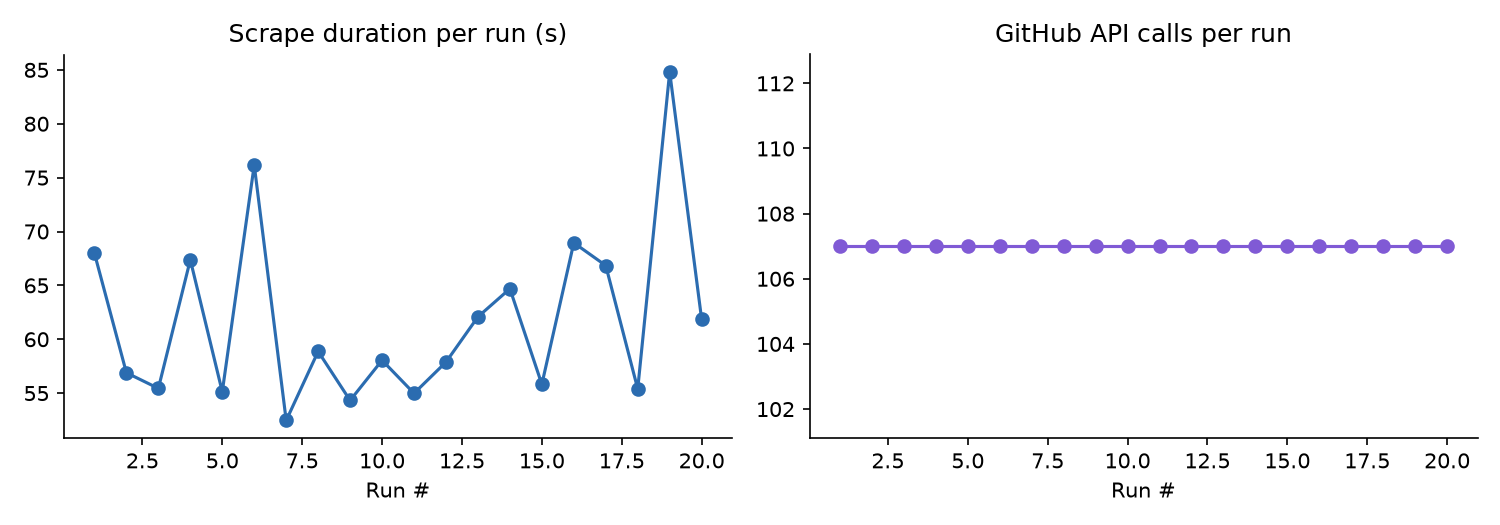
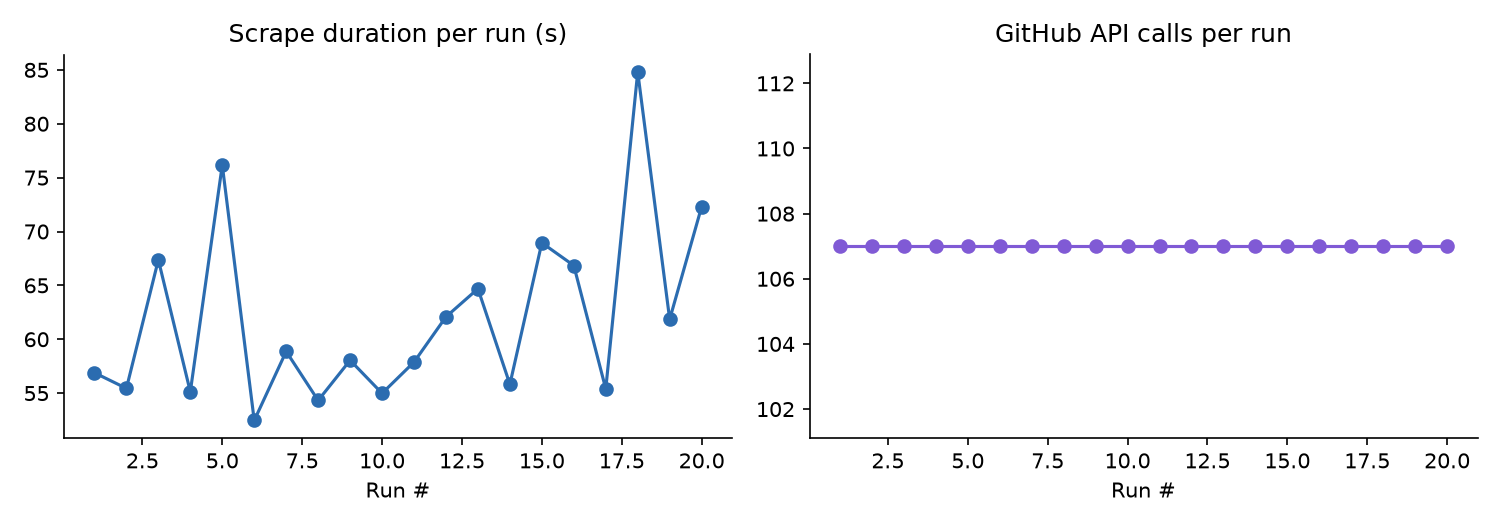
Weekly issue tracker refresh

Changed region(s): [[0.0613, 0.1219, 0.4907, 0.8229]]

diff --git a/README.md b/README.md
@@ -81,7 +81,7 @@ See [CONTRIBUTING.md](CONTRIBUTING.md) for the full contributor workflow — inc
 
 <!-- TRACKER:START -->
 
-_Last updated: 2026-07-24 09:13 UTC_
+_Last updated: 2026-07-24 10:02 UTC_
 
 _Tracking **18** upstream repos, **389** relevant open issues._
 
@@ -201,6 +201,7 @@ _Tracking **18** upstream repos, **389** relevant open issues._
 
 | Score | Issue | Labels | Comments | Updated |
 |---|---|---|---|---|
+| ★★☆☆☆ | [#14868](https://github.com/langfuse/langfuse/issues/14868) bug: app-root observations are not exposed as roots in the Observations v2 API (non-null parentObservationId, no isRoot filter) | bug, sdk-python, 🐞❔ unconfirmed bug, integration-otel | 2 | 2026-07-24 |
 | ★★☆☆☆ | [#15394](https://github.com/langfuse/langfuse/issues/15394) bug: NO_PROXY is not supported, so all outbound requests will go through the proxy if set, which can cause issues with internal APIs | bug, 🐞❔ unconfirmed bug, self-hosting | 1 | 2026-07-24 |
 | ★★☆☆☆ | [#15223](https://github.com/langfuse/langfuse/issues/15223) bug: web and worker don't connect to Redis-Sentinel | bug, 🐞❔ unconfirmed bug, self-hosting, infra | 5 | 2026-07-24 |
 | ★★☆☆☆ | [#15373](https://github.com/langfuse/langfuse/issues/15373) bug: Javascript file not loading | 🐞❔ unconfirmed bug | 0 | 2026-07-23 |
@@ -208,7 +209,6 @@ _Tracking **18** upstream repos, **389** relevant open issues._
 | ★★☆☆☆ | [#15152](https://github.com/langfuse/langfuse/issues/15152) The evaluator cannot set up LLM | bug, 🐞❔ unconfirmed bug, feat-scores, self-hosting, feat-llm-connections, langfuse/langfuse | 2 | 2026-07-23 |
 | ★☆☆☆☆ | [#12614](https://github.com/langfuse/langfuse/issues/12614) Allow using `metadata` fields (e.g. `organizationId`) as Breakdown Dimension in Dashboard Widgets | feature | 11 | 2026-07-24 |
 | ★☆☆☆☆ | [#15339](https://github.com/langfuse/langfuse/issues/15339) perf: span_processor.on_end evaluates span_formatter(span) eagerly via f-string regardless of log level | — | 1 | 2026-07-23 |
-| ★☆☆☆☆ | [#15343](https://github.com/langfuse/langfuse/issues/15343) bug: observation panel drops the reasoning block when completion is an empty string | — | 2 | 2026-07-23 |
 
 ### [nightscout/cgm-remote-monitor](https://github.com/nightscout/cgm-remote-monitor)
 
@@ -294,7 +294,7 @@ _Tracking **18** upstream repos, **389** relevant open issues._
 
 <!-- METRICS:START -->
 
-_Last run: 2026-07-24 09:12 UTC, took **61.8s**, **107** GitHub API calls, **4894/5000** rate limit remaining._
+_Last run: 2026-07-24 10:01 UTC, took **72.3s**, **107** GitHub API calls, **4788/5000** rate limit remaining._
 
 ![Scrape metrics trend](assets/metrics_trend.png)
 
